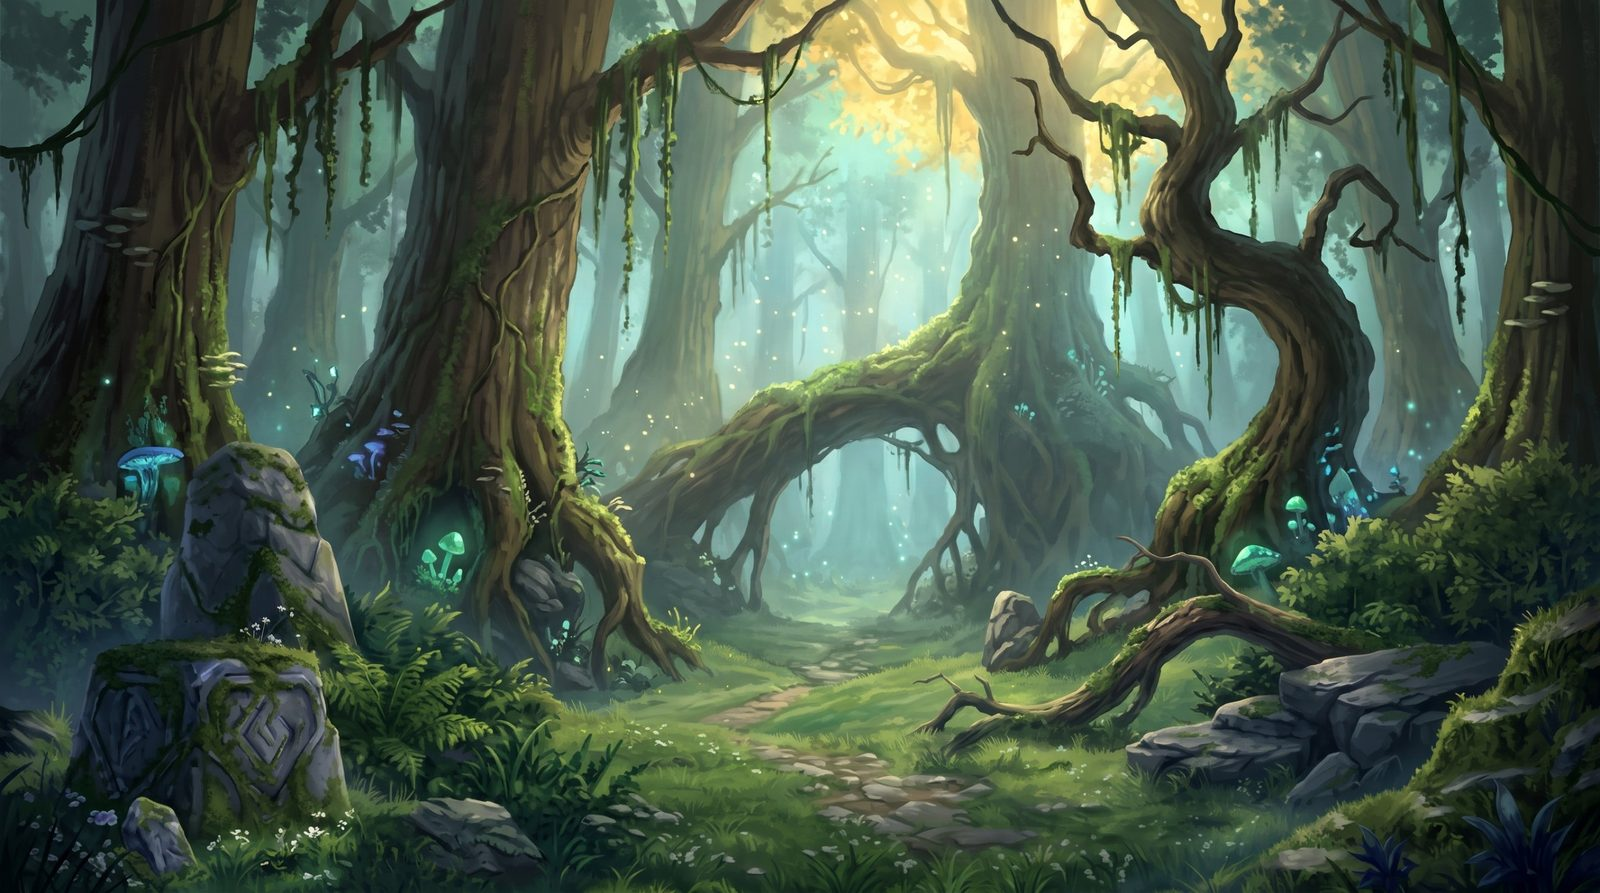
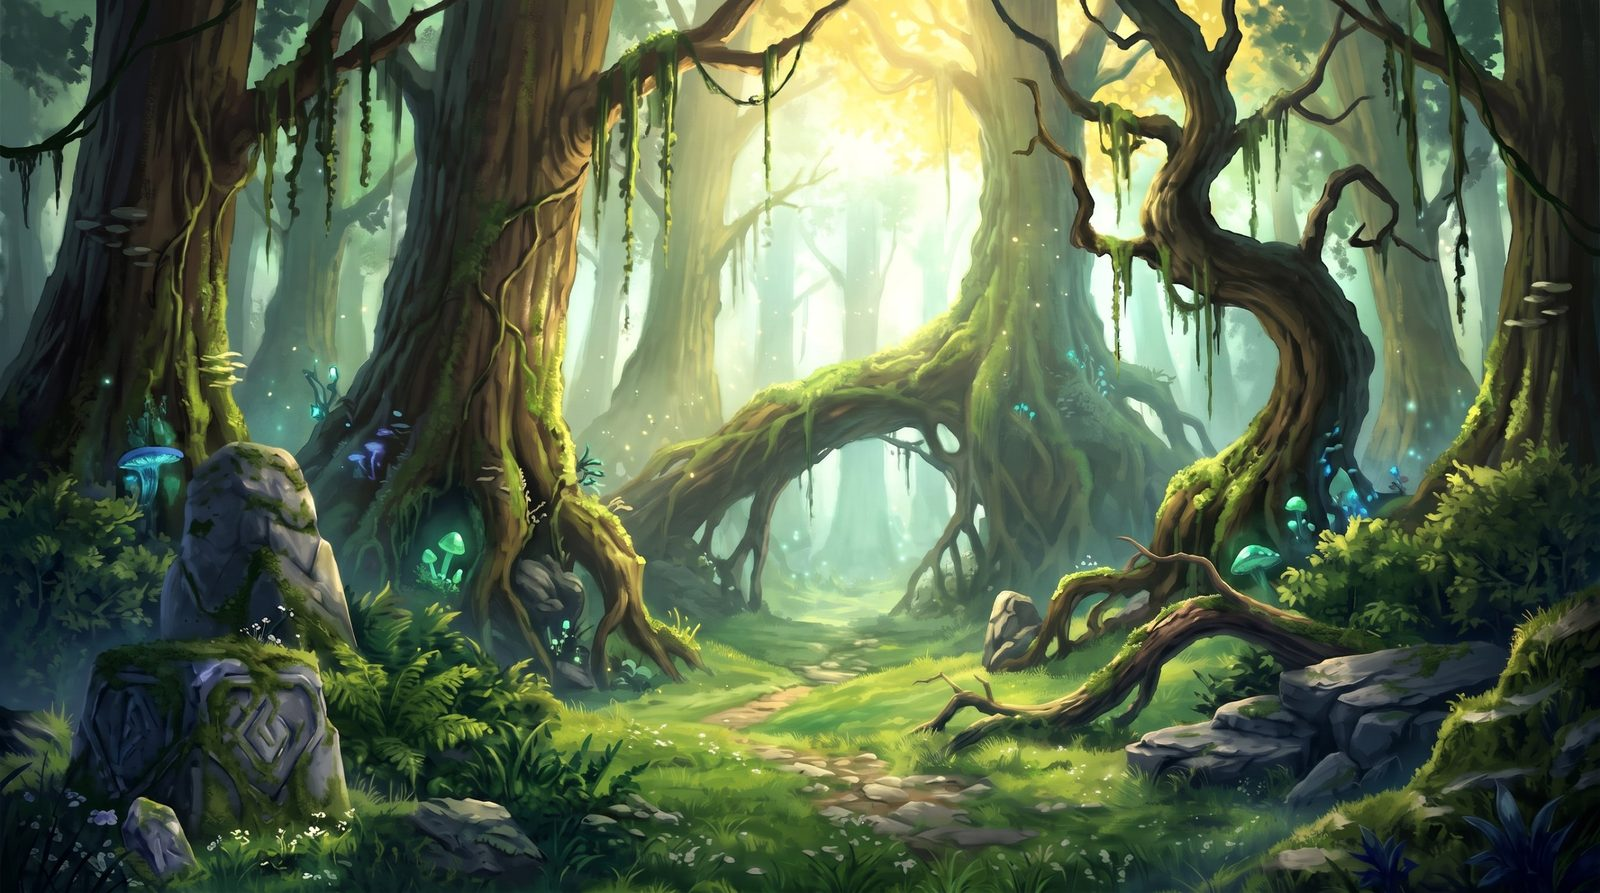
冒険2面（ささやきの森）の朝・昼・夕方・夜の画像を追加
Claude-Session: https://claude.ai/code/session_01EftAGzqa5a4WGGvn4eGGrQ

diff --git a/index.html b/index.html
@@ -2187,7 +2187,7 @@
         <button onclick="openCouponModal()" title="秘密の鍵"
             style="background:rgba(5,20,10,0.55);border:1px solid rgba(60,140,80,0.35);border-radius:20px;padding:3px 9px;font-size:11px;cursor:pointer;color:rgba(140,200,150,0.65);display:flex;align-items:center;gap:3px;transition:all 0.3s;font-family:'Noto Serif JP',serif;letter-spacing:0.03em;opacity:0.7;flex-shrink:0;">🗝</button>
         <button id="accountChip" onclick="Cloud.chipClick()" title="アカウント"></button>
-        <div style="font-size:9px;letter-spacing:0.12em;color:rgba(200,170,80,0.45);font-family:'Noto Serif JP',serif;text-align:center;flex:1;padding:0 6px;">Designed by Takahiro Iimura<br><span id="appVersion" style="opacity:.8;">ver. 2026.11.02-1515</span></div>
+        <div style="font-size:9px;letter-spacing:0.12em;color:rgba(200,170,80,0.45);font-family:'Noto Serif JP',serif;text-align:center;flex:1;padding:0 6px;">Designed by Takahiro Iimura<br><span id="appVersion" style="opacity:.8;">ver. 2026.11.02-1525</span></div>
         <button id="bgmBtn" onclick="toggleBGM()" title="BGM ON/OFF"
             style="background:rgba(30,20,5,0.7);border:1.5px solid rgba(220,170,50,0.7);border-radius:20px;padding:3px 10px;font-size:12px;cursor:pointer;color:rgba(220,170,50,0.85);display:flex;align-items:center;gap:4px;transition:all 0.3s;font-family:'Noto Serif JP',serif;letter-spacing:0.05em;flex-shrink:0;">🔇 BGM</button>
     </div>
@@ -8239,7 +8239,7 @@ const Cloud = (function () {
     const ADV_STEPS = 5;
     const ADV_AREAS = [
         { key: 'meadow',   imgs: ['morning', 'day', 'evening', 'night'], tod: 1, name: 'はじまりの草原', icon: '🌄', goal: '🗺', tint: '#a8d870', enc: ['🐇 野うさぎが道をふさいだ', '🪧 古い道しるべに文字が刻まれている', '🧚 草原の妖精が問いかけてきた', '🐦 小鳥が手紙をくわえてきた'] },
-        { key: 'forest',   imgs: ['day'], tod: 1,   name: 'ささやきの森', icon: '🌲', goal: '🏕', tint: '#8fd060', enc: ['🍄 キノコの精が問いかけてきた', '🦊 森のキツネがなぞなぞを出した', '🌿 木の幹に古い文字が刻まれている', '🦉 フクロウが言葉の意味をたずねた'] },
+        { key: 'forest',   imgs: ['morning', 'day', 'evening', 'night'], tod: 1,   name: 'ささやきの森', icon: '🌲', goal: '🏕', tint: '#8fd060', enc: ['🍄 キノコの精が問いかけてきた', '🦊 森のキツネがなぞなぞを出した', '🌿 木の幹に古い文字が刻まれている', '🦉 フクロウが言葉の意味をたずねた'] },
         { key: 'cave',     imgs: ['day'], tod: .35, name: '霧の洞窟',     icon: '🦇', goal: '💎', tint: '#8fa0ff', enc: ['🦇 コウモリの群れが道をふさいだ', '🕯 壁に光る文字が浮かび上がった', '🗝 錆びた扉に謎の言葉が…', '💧 地底湖に言葉が映っている'] },
         { key: 'hill',     imgs: ['day'], tod: .3,  name: '星降る丘',     icon: '⛰', goal: '🔭', tint: '#c9a6ff', enc: ['⭐ 流れ星が言葉を落としていった', '🐑 羊飼いの少年が道をたずねた', '🌙 月の精がささやいた', '🪁 風に乗って手紙が飛んできた'] },
         { key: 'ruins',    imgs: ['day'], tod: 1,   name: '古代の遺跡',   icon: '🏛', goal: '📜', tint: '#e8b850', enc: ['🗿 石像が口を開いた', '📜 古文書の一節が読めそうだ', '🐍 封印の蛇が合言葉を求めている', '🏺 壺の底に文字が刻まれている'] },
